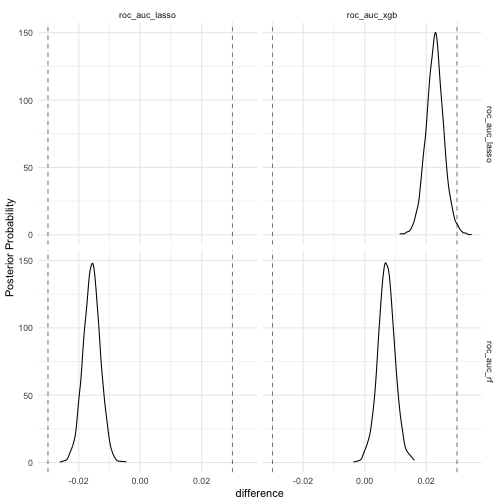
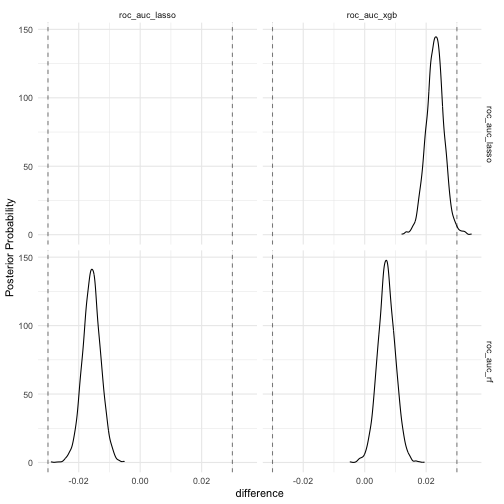
Change intro slide

diff --git a/xaringan_presentation/slides.html b/xaringan_presentation/slides.html
@@ -20,14 +20,11 @@ class: center, middle, title-slide
 ---
 
 
-## Introduction
-
+## Contents
 
 - Problem description and approach
 
 - Frequentist and bayesian methods
-
-- Criticism
 
 - tidyposterior examples
 
@@ -345,9 +342,9 @@ summary(bayesian_comparison, size = 0.01) %&gt;%
 ## # A tibble: 3 x 4
 ##   contrast                     pract_neg pract_equiv pract_pos
 ##   &lt;chr&gt;                            &lt;dbl&gt;       &lt;dbl&gt;     &lt;dbl&gt;
-## 1 roc_auc_lasso vs roc_auc_rf      0.981      0.0188     0    
+## 1 roc_auc_lasso vs roc_auc_rf      0.976      0.0245     0    
 ## 2 roc_auc_xgb vs roc_auc_lasso     0          0          1    
-## 3 roc_auc_xgb vs roc_auc_rf        0          0.864      0.136
+## 3 roc_auc_xgb vs roc_auc_rf        0          0.849      0.151
 ```
 
 ```r
@@ -360,9 +357,9 @@ summary(bayesian_comparison, size = 0.03) %&gt;%
 ## # A tibble: 3 x 4
 ##   contrast                     pract_neg pract_equiv pract_pos
 ##   &lt;chr&gt;                            &lt;dbl&gt;       &lt;dbl&gt;     &lt;dbl&gt;
-## 1 roc_auc_lasso vs roc_auc_rf          0       1         0    
-## 2 roc_auc_xgb vs roc_auc_lasso         0       0.989     0.011
-## 3 roc_auc_xgb vs roc_auc_rf            0       1         0
+## 1 roc_auc_lasso vs roc_auc_rf          0       1        0     
+## 2 roc_auc_xgb vs roc_auc_lasso         0       0.990    0.0095
+## 3 roc_auc_xgb vs roc_auc_rf            0       1        0
 ```
 ---
 
